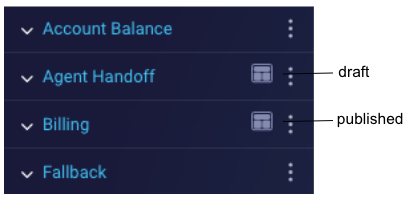
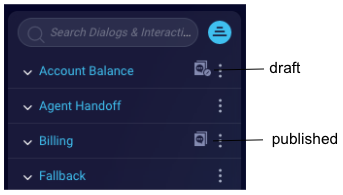
Update doc and images on published status

diff --git a/pages/Documents/ConversationalAI/ConversationBuilder/dialog-templates.md b/pages/Documents/ConversationalAI/ConversationBuilder/dialog-templates.md
@@ -61,9 +61,10 @@ There are two reasons for this constraint:
 
 6. Do one of the following:
     * Click **Save** to save the template definition but keep it in "Draft" status. This keeps the dialog template hidden.
-    * Click **Publish** to save the template definition and make it possible for other bot developers within your organization to import the dialog template. This changes the template's status to "Published."
-
-    In the Dialogs panel, you now see an indicator that the dialog has a template definition:
+    * Click **Publish** to save the template definition and move it to "Published" status. This makes it possible for other bot developers within your organization to import the dialog template.
+    <br>
+    <br>
+    In the Dialogs panel, you now see an indicator that the dialog has a template definition, either in Draft or Published status:
 
     <img style="width:350px" src="img/ConvoBuilder/dialogtemplates_3.png">
 
